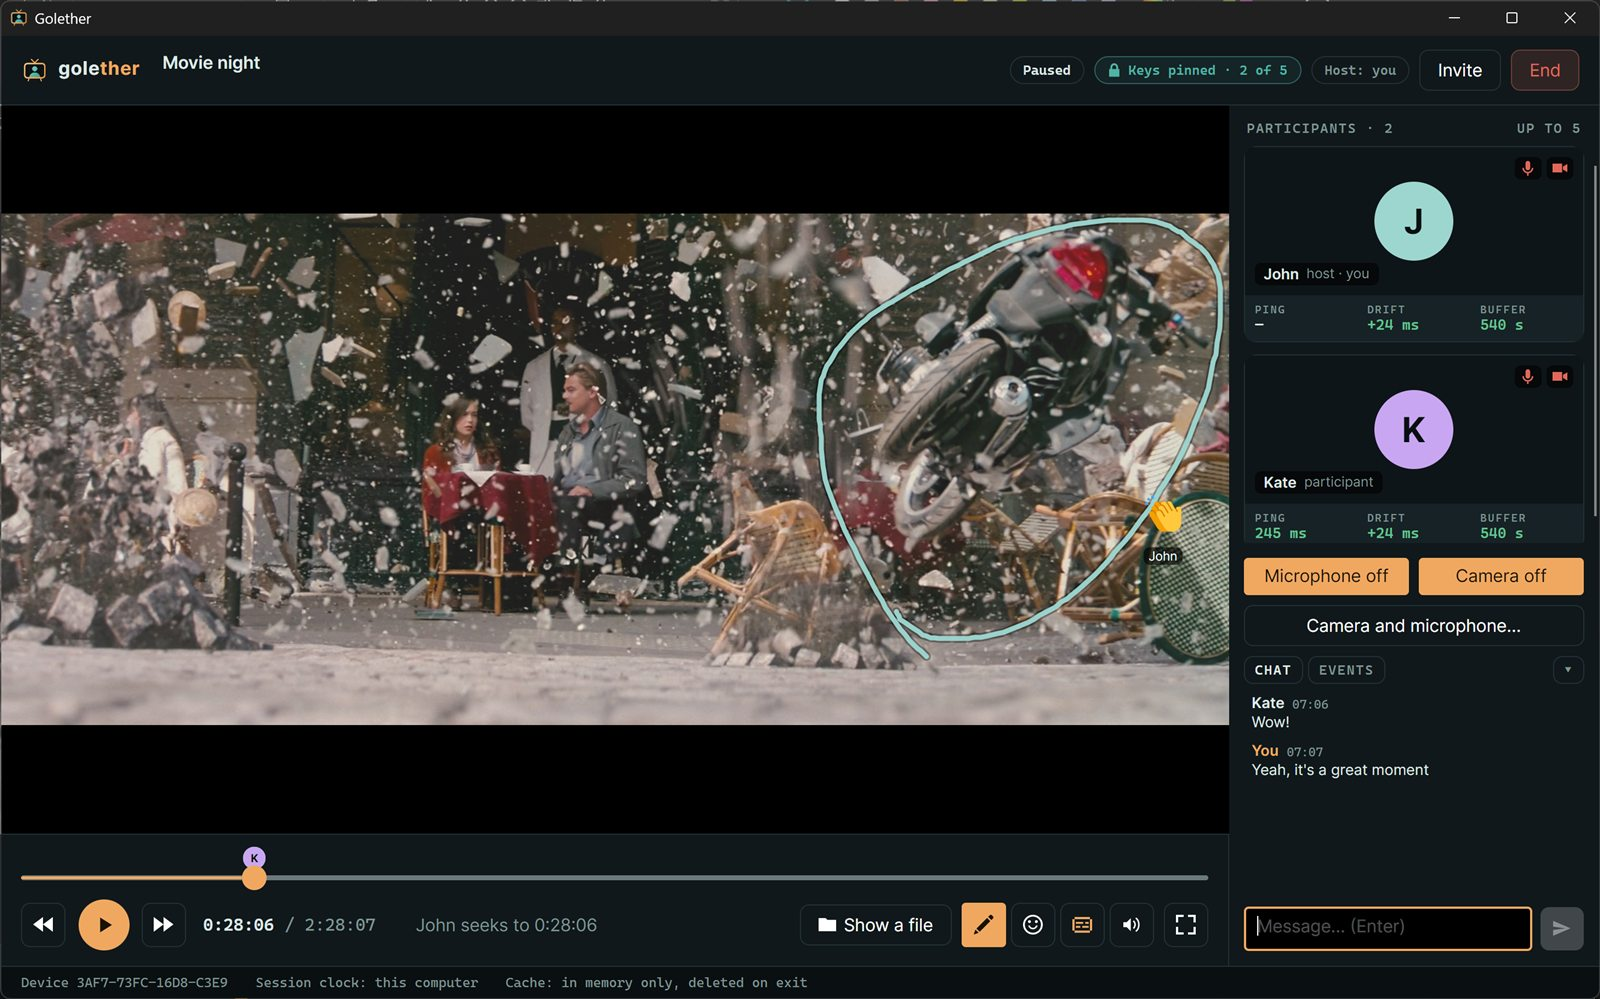
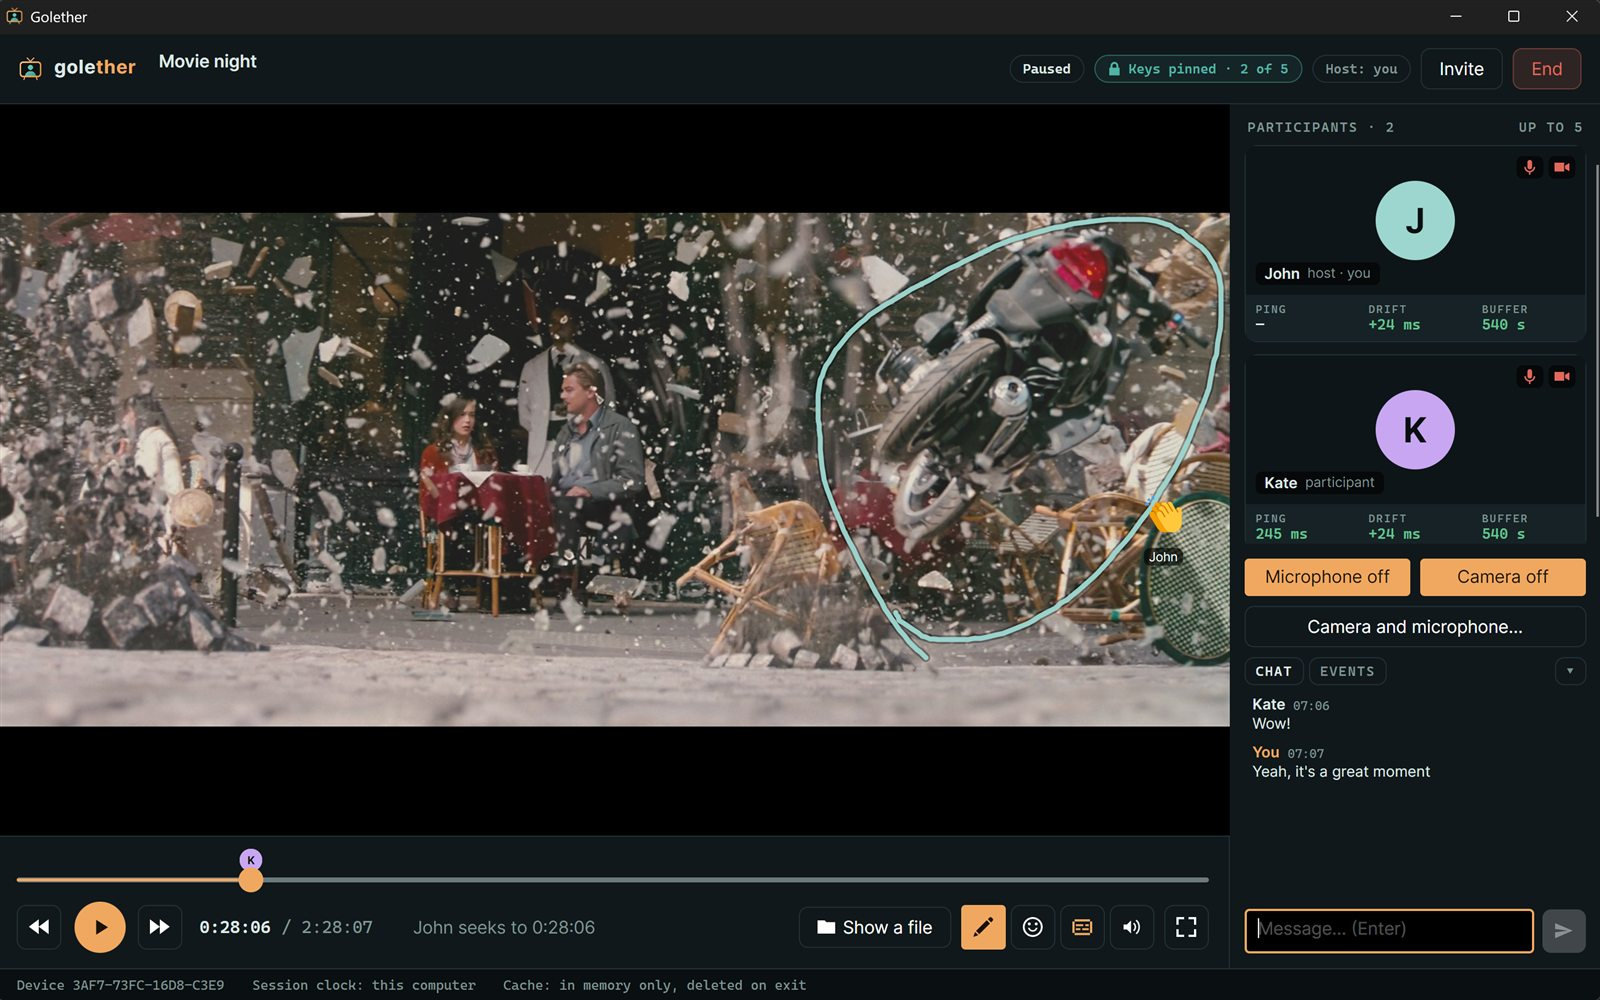
Work on site

diff --git a/Sources/Apps/Golether.Pages/index.html b/Sources/Apps/Golether.Pages/index.html
@@ -42,7 +42,7 @@
         <div class="version"><span data-t="hero.free">Free and open source · Windows, Linux, macOS</span></div>
 
         <div class="shot">
-          <img src="assets/screenshot.jpg" width="1600" height="999" alt="The Golether window: a film in the player, the participants and the chat on the right" data-t-alt="hero.shot">
+          <img src="assets/screenshot.jpg" width="1600" height="1000" alt="The Golether window: a film in the player, the participants and the chat on the right" data-t-alt="hero.shot">
         </div>
 
         <!-- Two viewers, one moment: the playheads run together. -->
